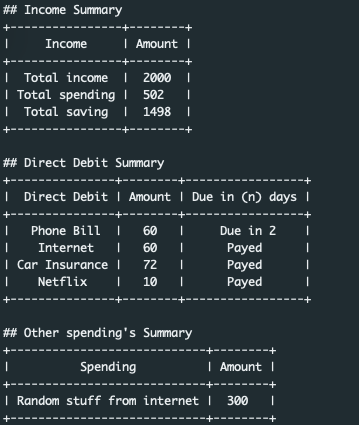
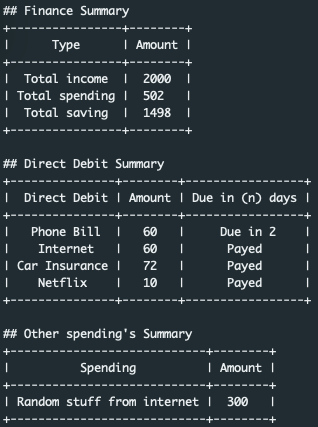
Updates v1.2

diff --git a/finance-manager.py b/finance-manager.py
@@ -7,7 +7,7 @@ total_income = 0
 total_spending = 0
 
 # Define tables
-spendingIncomeSavingSummary = PrettyTable(['Income','Amount'])
+spendingIncomeSavingSummary = PrettyTable(['Type','Amount'])
 upcomingBillsSummary = PrettyTable(['Direct Debit','Amount','Due in (n) days'])
 otherSpendingSummary = PrettyTable(['Spending','Amount'])
 
@@ -65,7 +65,7 @@ spendingIncomeSavingSummary.add_row(['Total spending', str(total_spending)])
 spendingIncomeSavingSummary.add_row(['Total saving', str(savings)])
 
 # Print summary tables
-print("\n## Income Summary")
+print("\n## Finance Summary")
 print(spendingIncomeSavingSummary)
 print("\n## Direct Debit Summary")
 print(upcomingBillsSummary)
